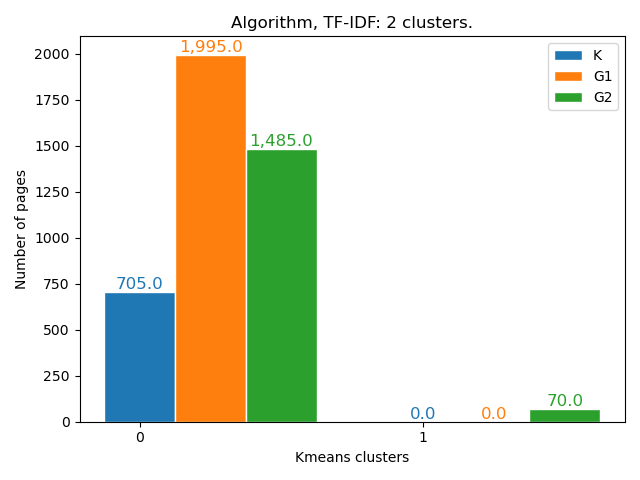
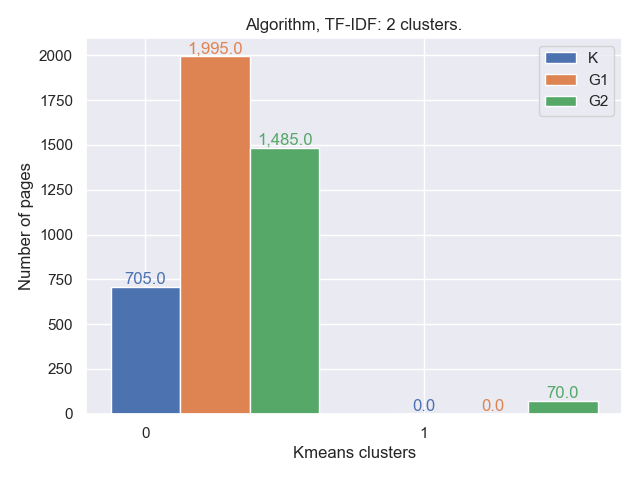
kmeans plots with 14 levels

diff --git a/cs229_kmeans.py b/cs229_kmeans.py
@@ -1,6 +1,7 @@
 import numpy as np
 from sklearn.cluster import KMeans
 import matplotlib.pyplot as plt
+import seaborn as sns; sns.set_theme()
 
 #*** cs229_kmeans.py
 # Summary: Contains and tests k-means on various representations of the dataset
@@ -68,6 +69,10 @@ def index2matrix(vec):
     for i, idx in enumerate(vec):
         out[i, idx] = 1
     return out
+
+def heatmap_unpooled(kmeans_matrix, k, algtype):
+    sns.heatmap(kmeans_matrix, annot=True, fmt="d")
+
 
 
 
@@ -137,21 +142,15 @@ def barplt_pooled(kmeans_matrix, k, algtype):
     plt.savefig(pltname, format= 'png') 
 
 
+
+
 def main():
     np.set_printoptions(suppress=True)
-    
-    
-    #k = 3
 
+    ### Unpooled dataset
     for k in range(2,5):
-        
-        print(k)
-        matrix, levels, _ = util.load_dataset_pooled()
-        print("matrix shape", matrix.shape)
+        matrix, levels, _ = util.load_dataset()
         print("grade_level",levels.shape)
-        ## K means no change in matrix
-        labels_tf= kmean_cluster(matrix,k)
-
         ## K modified terms matrix
         matrix_tf, matrix_tfidf= tfidf(matrix)
         # print("tfidf", matrix_tfidf.shape)
@@ -159,34 +158,87 @@ def main():
         # print(np.unique(labels_tfidf))
 
         ## Columns are original levels, rows are K means clusters
+        x_axis_labels = ["A","B","C","D","E","F", "G","H", "I","J","K","L","M","N"] # labels for x-axis
+        y_axis_labels = [0,1,2] # labels for y-axis
+
         kmeans_tf= (index2matrix(labels_tf).T @ levels).round(decimals=2)
+        plt.figure()
+        s=sns.heatmap(kmeans_tf, annot=True, fmt=".0f",xticklabels=x_axis_labels, yticklabels=y_axis_labels)
+        s.set(xlabel='Original labels', ylabel='K-means clusters')
+        pltname = f"./kmeans_{k}clusters_TF_heatmap.png"
+        print(pltname)
+        plt.savefig(pltname, format= 'png')
+        plt.clf()
 
         print("simple term frequency matrix")
         print(kmeans_tf)
-        barplt_pooled(kmeans_tf, k, "TF")
-        # uv, xt = xtab(labels_tf, levels)
-        # print(uv)
-        # print(xt)
 
-        print("term frequency idf matrix")
-        labels_tfidf= kmean_cluster(matrix_tfidf,k)
-        print("labels_tfidf",index2matrix(labels_tfidf).shape)
-        kmeans_tfidf= (index2matrix(labels_tfidf).T @ levels).round(decimals=2)
-        print(kmeans_tfidf)
-        barplt_pooled(kmeans_tfidf, k, "TF-IDF")
-        # uvidf, xtidf = xtab(labels_tfidf, levels)
-        # print(uvidf)
-        # print(xtidf)
 
-        # Using vectorizer
+        #### Vectorized 
+
         matrix = np.loadtxt('./neural_network_files/matrix.txt.gz')
 
-        ## K means no change in matrix
+        #     ## K means no change in matrix
         labels_vec= kmean_cluster(matrix,k)
         kmeans_vec= (index2matrix(labels_vec).T @ levels).round(decimals=2)
-        print("Vectorized inputs")
-        print(kmeans_vec)
-        barplt_pooled(kmeans_vec, k, "BERT vector")
+        plt.figure()
+        s2=sns.heatmap(kmeans_vec, annot=True, fmt=".0f",xticklabels=x_axis_labels, yticklabels=y_axis_labels)
+        s2.set(xlabel='Original labels', ylabel='K-means clusters')
+        pltname = f"./kmeans_{k}clusters_BERT_heatmap.png"
+        print(pltname)
+        plt.savefig(pltname, format= 'png')
+
+
+
+
+    # ### Pooled dataset
+    # for k in range(2,5):
+    #     print(k)
+    #     matrix, levels, _ = util.load_dataset_pooled()
+    #     print("matrix shape", matrix.shape)
+    #     print("grade_level",levels.shape)
+    #     ## K means no change in matrix
+    #     labels_tf= kmean_cluster(matrix,k)
+
+    #     ## K modified terms matrix
+    #     matrix_tf, matrix_tfidf= tfidf(matrix)
+    #     # print("tfidf", matrix_tfidf.shape)
+    #     labels_tf= kmean_cluster(matrix_tf,k)
+    #     # print(np.unique(labels_tfidf))
+
+    #     ## Columns are original levels, rows are K means clusters
+    #     kmeans_tf= (index2matrix(labels_tf).T @ levels).round(decimals=2)
+
+    #     print("simple term frequency matrix")
+    #     print(kmeans_tf)
+    #     barplt_pooled(kmeans_tf, k, "TF")
+    #     # uv, xt = xtab(labels_tf, levels)
+    #     # print(uv)
+    #     # print(xt)
+
+    #     print("term frequency idf matrix")
+    #     labels_tfidf= kmean_cluster(matrix_tfidf,k)
+    #     print("labels_tfidf",index2matrix(labels_tfidf).shape)
+    #     kmeans_tfidf= (index2matrix(labels_tfidf).T @ levels).round(decimals=2)
+    #     print(kmeans_tfidf)
+    #     barplt_pooled(kmeans_tfidf, k, "TF-IDF")
+    #     # uvidf, xtidf = xtab(labels_tfidf, levels)
+    #     # print(uvidf)
+    #     # print(xtidf)
+
+    #     # Using vectorizer
+    #     matrix = np.loadtxt('./neural_network_files/matrix.txt.gz')
+
+    #     ## K means no change in matrix
+    #     labels_vec= kmean_cluster(matrix,k)
+    #     kmeans_vec= (index2matrix(labels_vec).T @ levels).round(decimals=2)
+    #     print("Vectorized inputs")
+    #     print(kmeans_vec)
+    #     barplt_pooled(kmeans_vec, k, "BERT vector")
+
+
+
+
 
 
 
